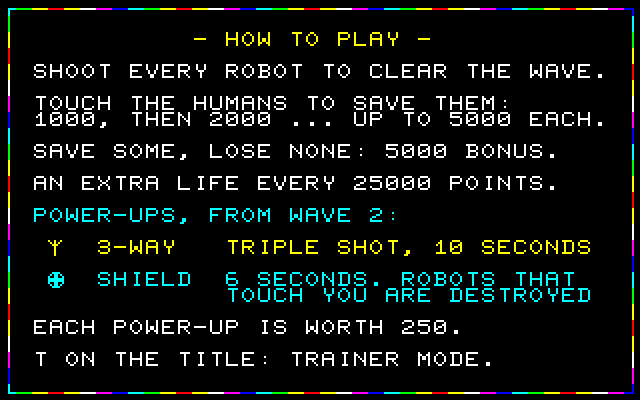
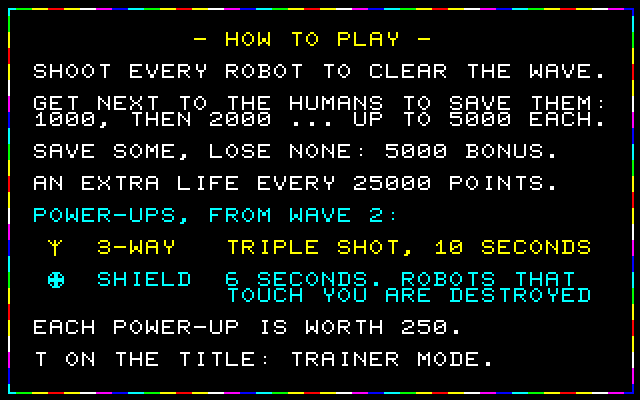
Robogeddon MZ-700: save humans from the 8 cells round them
On a 40 x 25 grid an exact hit was too fiddly: rescue_near checks the
player's 8 neighbouring cells in the owner map each tick and saves any
human there (robots and bullets still have to hit the player's own cell).
The rescue code is now its own routine, rescue_human. How to Play,
README, blurb and showcase updated; tools/test_rescue.py checks adjacent
and diagonal rescues and that two cells away doesn't count.

Changed region(s): [[0.4062, 0.24, 0.9375, 0.3], [0.0625, 0.24, 0.375, 0.27]]

diff --git a/ROBOTROMZ/tools/test_rescue.py b/ROBOTROMZ/tools/test_rescue.py
@@ -1,0 +1,69 @@
+"""test_rescue.py - humans are saved from the 8 cells round them, not from
+two cells away.
+
+    py tools/test_rescue.py
+"""
+import os
+import sys
+
+HERE = os.path.dirname(os.path.abspath(__file__))
+sys.path.insert(0, HERE)
+from mzemu import MZ, load_syms  # noqa: E402
+import play  # noqa: E402
+
+B = os.path.join(HERE, '..', 'build')
+OBJ, SZ = 0x9000, 32
+os.environ['GOD'] = '1'
+os.environ['WAVE'] = '5'                # lots of humans
+
+
+def fresh():
+    sym = load_syms(os.path.join(B, 'robogedn.sym'))
+    m = MZ(os.path.join(B, 'ROBOGEDN.MZT'))
+    play.patch(m, sym)
+    wv = sym['wait_vblank']
+    m.run_until_pc(wv, 10 ** 8)
+
+    def tick(keys=()):
+        m.held = set(keys)
+        m.step()
+        m.run_until_pc(wv, 10 ** 9)
+    for _ in range(300):
+        tick()
+    for _ in range(4):
+        tick(['space'])
+    while m.mem[sym['state']] != 1:
+        tick()
+    return m, sym, tick
+
+
+def humans(m, sym):
+    out = []
+    for i in range(m.mem[sym['objtop']]):
+        o = m.mem[OBJ + i * SZ:OBJ + i * SZ + SZ]
+        if 10 <= o[0] <= 12 and o[11] == 0:
+            out.append((i, o[2], o[4]))
+    return out
+
+
+def trial(dx, dy):
+    m, sym, tick = fresh()
+    hs = [h for h in humans(m, sym) if 3 <= h[1] + dx <= 36 and 4 <= h[2] + dy <= 21]
+    i, x, y = hs[0]
+    o = OBJ + i * SZ
+    m.mem[o + 9] = 200                  # hold the human still for this test
+    saved0 = m.mem[sym['saved']]
+    m.mem[sym['px'] + 1] = x + dx
+    m.mem[sym['py'] + 1] = y + dy
+    tick()
+    tick()
+    saved = m.mem[sym['saved']] - saved0
+    return saved, m.mem[o]
+
+
+for dx, dy, want in ((0, 0, 1), (1, 0, 1), (-1, 1, 1), (0, -1, 1), (1, 1, 1), (2, 0, 0), (0, 2, 0)):
+    saved, typ = trial(dx, dy)
+    print('player at %+d,%+d from a human: saved %d (human now type %d)  %s' % (
+        dx, dy, saved, typ, 'ok' if saved == want else 'WRONG'))
+    assert saved == want
+print('ok')

diff --git a/ROBOTROMZ/showcase/BLURB.md b/ROBOTROMZ/showcase/BLURB.md
@@ -38,7 +38,8 @@ There's no time to think, only to move and shoot, and to keep moving.
 - **Orbs** bounce around hatching spark-spitting **Seekers**.
 - **Factories** roll out **Tanks** that lob shells off the walls.
 
-Save the humans for 1,000 to 5,000 points apiece. Grab **3-Way** spread
+Save the humans for 1,000 to 5,000 points apiece: just reach the cell next to
+one. Grab **3-Way** spread
 shot and the **Shield** (robots that touch you are destroyed), earn the
 **Full Family Bonus**, and pick up an extra life every 25,000 points. The
 first ten waves ease you in; waves 21-40 are new mixes, ending with
@@ -80,14 +81,14 @@ first ten waves ease you in; waves 21-40 are new mixes, ending with
 | Sound | One voice on 8253 counter 0: an engine of pitch sweeps, warbles and three bands of noise. Noise is re-rolled continuously while the CPU waits for vertical blank, on its own random generator |
 | Input | The keyboard matrix is scanned every tick; any mix of the 8 movement and 8 firing directions works together |
 | Media | `ROBOGEDN.MZF` for a real machine through a UniCMT or tape; `ROBOGEDN.MZT` for emulators (identical) |
-| File | 14,676 bytes (plus the 128-byte tape header), loads at 1200h and starts by itself; nothing more is loaded |
+| File | 14,768 bytes (plus the 128-byte tape header), loads at 1200h and starts by itself; nothing more is loaded |
 | Language | Z80 assembly (sjasmplus), about 6,300 lines; build, test and showcase tools in Python (an MZ-700 model with video-memory wait states, a renderer invariant checker, a WAV renderer for the sound) |
 
 ### RAM used
 
 | Area | Address | Bytes |
 |---|---|---|
-| Program, graphics, waves, sound, text, variables | 1200h-4B53h | 14,676 |
+| Program, graphics, waves, sound, text, variables | 1200h-4BAFh | 14,768 |
 | Object layer (characters, attributes) | 8000h-87FFh | 2,048 |
 | Redraw flags | 8800h-8BFFh | 1,024 |
 | Particles (32 x 16) | 8C00h-8DFFh | 512 |
@@ -98,9 +99,9 @@ first ten waves ease you in; waves 21-40 are new mixes, ending with
 | Background, work screen, video RAM shadow (characters, attributes) | B000h-C7FFh | 6,144 |
 | Owner / collision map, bullet map | C800h-CFFFh | 2,048 |
 | Stack (in the monitor's work area, below 1200h) | 1000h-11FFh | (512) |
-| **Total** | | **31,316 (30.6 KB)** |
+| **Total** | | **31,408 (30.7 KB)** |
 
-That leaves 17,324 bytes (16.9 KB) of the MZ-700's 47.5 KB of user RAM
-(1200h-CFFFh) free: 4B54h-7FFFh, 8E00h-8FFFh, 9A00h-9FFFh, A700h-A7FFh and
+That leaves 17,232 bytes (16.8 KB) of the MZ-700's 47.5 KB of user RAM
+(1200h-CFFFh) free: 4BB0h-7FFFh, 8E00h-8FFFh, 9A00h-9FFFh, A700h-A7FFh and
 AA00h-AFFFh. Video and colour RAM (D000h-DFFFh) and the monitor ROM are
 not counted.

diff --git a/ROBOTROMZ/README.md b/ROBOTROMZ/README.md
@@ -20,7 +20,7 @@ ViBED by BPM 2026.
 
 - **Real MZ-700 / UniCMT:** copy `release/ROBOGEDN.MZT` to the USB stick
   (`release/ROBOGEDN.MZF` is the same file under the other common extension)
-  and load it like a tape (`L` from the monitor). It loads at 1200h-4B53h and
+  and load it like a tape (`L` from the monitor). It loads at 1200h-4BAFh and
   starts by itself.
 - **MZ700WIN:** File > Open `release/ROBOGEDN.MZT`.
 
@@ -41,7 +41,8 @@ You can move one way and shoot another, which is the whole point of the game.
 ## The game
 
 The robots have risen, and the last human family is wandering the arena.
-Shoot every robot to clear the wave, and run into the humans to save them.
+Shoot every robot to clear the wave, and run to the humans to save them: being
+next to one (any of the 8 cells round it) is enough.
 Each rescue is worth more than the last (1000, 2000, 3000, 4000, then 5000
 each). The count starts again every wave.
 
@@ -165,7 +166,7 @@ missiles are in the air at once. `play.py` prints the measured game speed.
 | Address | Use |
 |---|---|
 | 1000h-11FFh | stack (monitor work area; the game never returns to the monitor) |
-| 1200h-4B53h | code and data |
+| 1200h-4BAFh | code and data |
 | 8000h-87FFh | object layer (chars, attributes) |
 | 8800h-8BFFh | redraw flags |
 | 8C00h-8DFFh | particles (32 x 16 bytes) |
